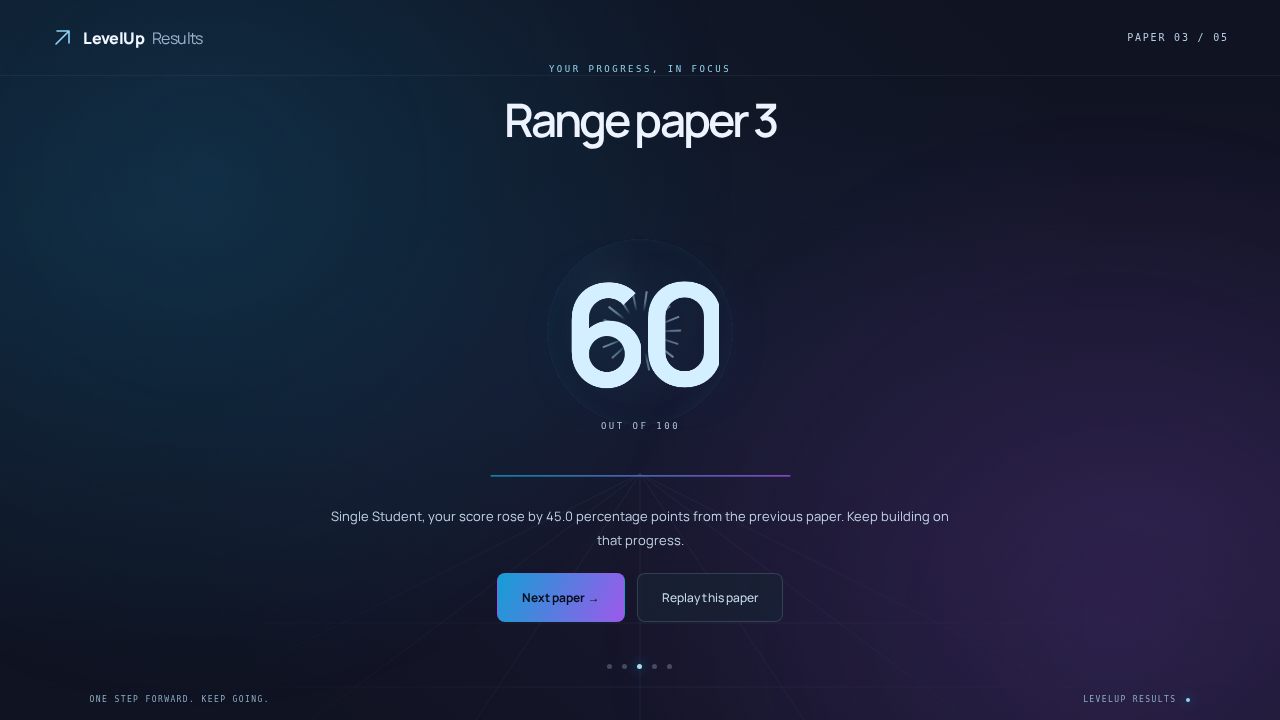
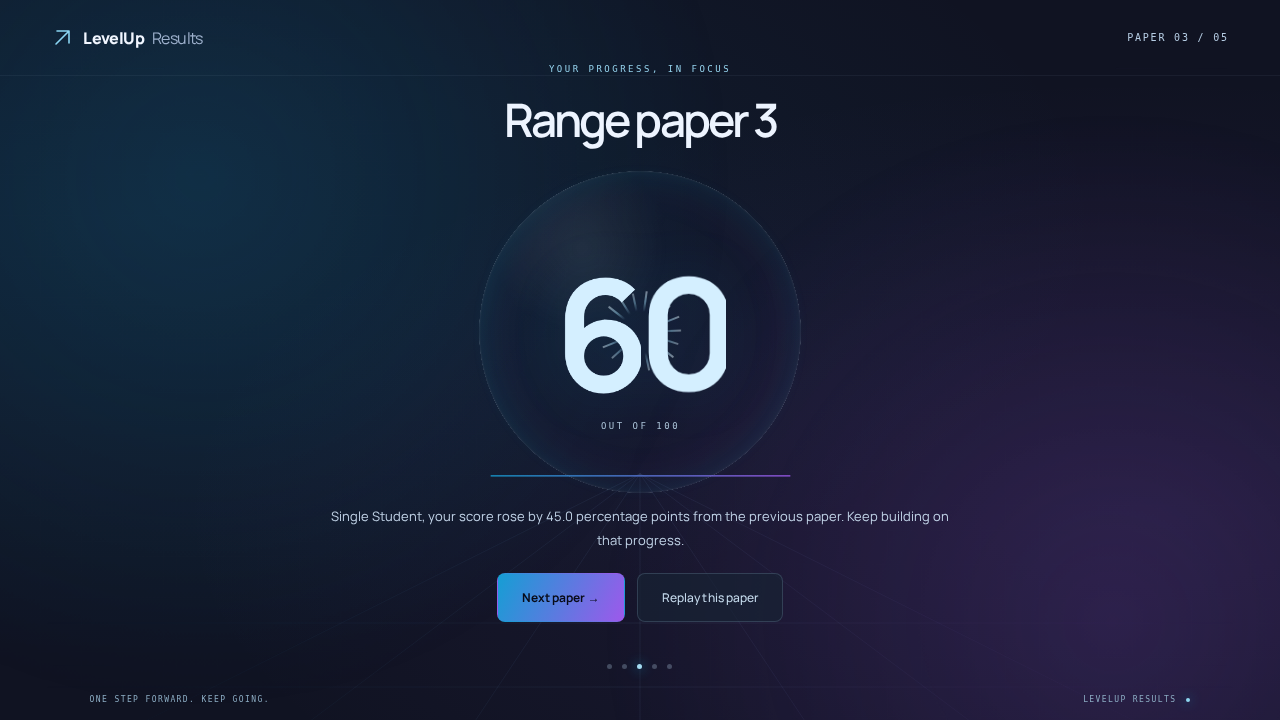
Synchronize score landing with instant glass blast and number pop

Changed region(s): [[0.4375, 0.3667, 0.5938, 0.55]]

diff --git a/tests/browser/application.spec.js b/tests/browser/application.spec.js
@@ -1649,3 +1649,90 @@ test("spinner colours develop gradually and the glass blast expands beyond the v
     /.+/,
   );
 });
+
+test("the final reel movement, glass blast and number pop share one completion frame", async ({
+  page,
+}) => {
+  test.setTimeout(30000);
+  await page.route("**/api/results/*", (route) =>
+    route.fulfill({
+      json: {
+        student: "Single Student",
+        papers: [
+          { id: "sync-a", name: "Sync paper one", max: 100, value: 60 },
+          { id: "sync-b", name: "Sync paper two", max: 100, value: 85 },
+        ],
+      },
+    }),
+  );
+  await identify(page, "Single Student");
+  await page.evaluate(() => {
+    window.revealTiming = [];
+    const original = Element.prototype.animate;
+    Element.prototype.animate = function (...args) {
+      if (this.matches(".score-glass:not(.score-glass-echo),#score"))
+        window.revealTiming.push({
+          kind: this.id === "score" ? "pop" : "blast",
+          at: performance.now(),
+          frames: args[0],
+          options: args[1],
+        });
+      return original.apply(this, args);
+    };
+    const score = document.querySelector("#score");
+    new MutationObserver((records) => {
+      if (
+        records.some((r) => r.attributeName === "data-complete") &&
+        score.dataset.complete === "true"
+      )
+        window.revealTiming.push({ kind: "stop", at: performance.now() });
+    }).observe(score, { attributes: true });
+  });
+  for (const [index, value] of [60, 85].entries()) {
+    await page.evaluate(() => {
+      window.revealTiming = [];
+      window.lastReelChange = 0;
+      let previous;
+      const watch = () => {
+        const score = document.querySelector("#score"),
+          strip = score.querySelector(".digit-strip");
+        const y = strip
+          ? new DOMMatrix(getComputedStyle(strip).transform).m42
+          : 0;
+        if (previous !== undefined && Math.abs(y - previous) > 0.1)
+          window.lastReelChange = performance.now();
+        previous = y;
+        if (score.dataset.complete !== "true") requestAnimationFrame(watch);
+      };
+      // The old completion flag is cleared by reveal before sampling starts.
+      window.watchReel = watch;
+    });
+    await page
+      .getByRole("button", {
+        name: new RegExp(index === 0 ? "Sync paper one" : "Sync paper two"),
+      })
+      .click();
+    await page.evaluate(() => requestAnimationFrame(window.watchReel));
+    await expect(page.locator("#score")).toHaveAttribute(
+      "aria-label",
+      `Score ${value}`,
+      { timeout: 6000 },
+    );
+    const timing = await page.evaluate(() => ({
+      events: window.revealTiming,
+      lastChange: window.lastReelChange,
+    }));
+    const stop = timing.events.find((e) => e.kind === "stop"),
+      blast = timing.events.find((e) => e.kind === "blast"),
+      pop = timing.events.find((e) => e.kind === "pop");
+    expect(Math.abs(blast.at - stop.at)).toBeLessThan(40);
+    expect(Math.abs(pop.at - blast.at)).toBeLessThan(20);
+    expect(stop.at - timing.lastChange).toBeLessThan(100);
+    expect(blast.options.delay).toBe(0);
+    expect(blast.frames[0].opacity).toBeGreaterThan(0);
+    expect(pop.frames[1].transform).toContain(index === 0 ? "1.22" : "1.28");
+    await expect(page.locator(".score-glass").first()).toBeVisible();
+    if (index === 0)
+      await page.getByRole("button", { name: "Next paper" }).click();
+  }
+});

diff --git a/public/reveal.js b/public/reveal.js
@@ -38,11 +38,12 @@ export function animateScore(
     host.append(slot);
     return { strip, target: 40 + Number(char) };
   });
-  let timer;
+  let timer, frame;
   const finish = () => {
     if (stopped) return;
     stopped = true;
     clearTimeout(timer);
+    cancelAnimationFrame(frame);
     strips.forEach((s) => {
       if (s) {
         s.strip.style.transition = "none";
@@ -53,21 +54,28 @@ export function animateScore(
     host.dataset.complete = "true";
     onFinish();
   };
-  requestAnimationFrame(() =>
-    requestAnimationFrame(() => {
+  // One animation clock drives both the reels and their completion effects.
+  // A CSS ease that flattens too early makes the score look stopped while a
+  // separate timeout is still waiting to start the blast.
+  if (reduced) timer = setTimeout(finish, 0);
+  else {
+    let started;
+    const roll = (now) => {
       if (stopped) return;
-      strips.forEach((s, i) => {
-        if (s) {
-          s.strip.style.transition = `transform ${reduced ? 0 : duration + i * 90}ms cubic-bezier(.12,.65,.15,1)`;
-          s.strip.style.transform = `translateY(-${s.target}em)`;
-        }
-      });
-    }),
-  );
-  timer = setTimeout(finish, reduced ? 0 : duration + digits.length * 90 + 30);
+      started ??= now;
+      const progress = Math.min(1, (now - started) / duration);
+      if (progress === 1) return finish();
+      const eased = 1 - Math.pow(1 - progress, 1.6);
+      for (const s of strips)
+        if (s) s.strip.style.transform = `translateY(-${s.target * eased}em)`;
+      frame = requestAnimationFrame(roll);
+    };
+    frame = requestAnimationFrame(roll);
+  }
   finish.cancel = () => {
     stopped = true;
     clearTimeout(timer);
+    cancelAnimationFrame(frame);
   };
   return finish;
 }

diff --git a/public/score-effects.js b/public/score-effects.js
@@ -150,11 +150,14 @@ export class ScoreEffects {
         this.animations.push(
           glass.animate(
             [
-              { opacity: 0, transform: "translate(-50%,-50%) scale(.06)" },
+              {
+                opacity: index ? 0 : 0.18,
+                transform: "translate(-50%,-50%) scale(.12)",
+              },
               {
                 opacity: index ? 0.38 : 0.8,
                 transform: "translate(-50%,-50%) scale(.34)",
-                offset: 0.22,
+                offset: 0.12,
               },
               {
                 opacity: 0.28,
@@ -204,12 +207,13 @@ export class ScoreEffects {
           [
             { transform: "translate(-50%,-50%) scale(1)" },
             {
-              transform: `translate(-50%,-50%) scale(${this.last ? 1.09 : 1.055})`,
-              offset: 0.35,
+              transform: `translate(-50%,-50%) scale(${this.last ? 1.28 : 1.22})`,
+              offset: 0.2,
             },
+            { transform: "translate(-50%,-50%) scale(.98)", offset: 0.65 },
             { transform: "translate(-50%,-50%) scale(1)" },
           ],
-          { duration: 850, easing: "cubic-bezier(.2,.7,.2,1)" },
+          { duration: 620, easing: "cubic-bezier(.2,.7,.2,1)" },
         ),
       );
     }

diff --git a/public/journey.js b/public/journey.js
@@ -626,6 +626,7 @@ export class StudentJourney {
         reduced: this.media.matches,
         duration: last ? 2900 : 2500,
         onFinish: () => {
+          this.scoreEffects.settle({ skip: this.skipEffects });
           if (motionReady) this.complete(last);
           else scoreFinished = true;
         },

diff --git a/docs/architecture.md b/docs/architecture.md
@@ -56,6 +56,9 @@ Autosave writes validated marks and sparse working cells before automatic regist
 
 ### Score effects lifecycle
 
-`public/score-effects.js` maps validated numeric results to percentage-based profiles and owns persistent atmosphere layers, one-shot burst/sweep animations and scoped confetti cleanup. `StudentJourney` prepares a profile before rolling and settles effects only after the score and screen transition finish. Leaving the reveal clears the profile, owned particles and animation handles; live reduced-motion changes cancel decorative effects. Gold is a score threshold rather than a consequence of being the final paper. The final paper still gets the largest completion celebration, without unsupported personal-best claims or negative low-score labels.
+`public/score-effects.js` maps validated numeric results to percentage-based profiles and owns persistent atmosphere layers, one-shot burst/sweep animations and scoped confetti cleanup. `StudentJourney` prepares a profile before rolling and settles effects in the same animation frame that places the reels at their final values, without waiting for the screen transition. Leaving the reveal clears the profile, owned particles and animation handles; live reduced-motion changes cancel decorative effects. Gold is a score threshold rather than a consequence of being the final paper. The final paper still gets the largest completion celebration, without unsupported personal-best claims or negative low-score labels.
 
 The spinner calls `ScoreEffects.begin(duration)` using its actual roll duration. Owned Web Animations slowly develop each wash from a neutral opening; CSS supplies the settled and reduced-motion state. The completion blast measures the farthest viewport corner from the score center to size two temporary glass surfaces. Both surfaces use transform/opacity animation and are cancelled with the rest of the reveal lifecycle; no persistent welcome-screen orb is introduced.
+
+
+The reel engine uses one requestAnimationFrame clock with visible deceleration through its endpoint. Its completion callback immediately starts the glass blast and number pop; screen-transition completion only gates the following controls. The first glass surface has zero delay and a visible first keyframe; only its echo is delayed. The number briefly scales to 1.22 (1.28 for the final paper), then settles back. Skip and reduced motion suppress both effects.

diff --git a/README.md b/README.md
@@ -199,3 +199,5 @@ Previous standalone calculation workbooks remain in MongoDB's `workbooks` collec
 Effects use the percentage of each paper's maximum: below 10% fades to deep red; 10–under 20% uses softer red; above 50% adds a single light burst when the spinner stops; above 70% turns the digits gold; above 75% adds confetti; above 90% adds a brighter achievement treatment. Thresholds are strict (50%, 70%, and 75% keep the preceding effect). Every final paper receives a larger completion celebration, including low scores, with supportive messages. These effects never change actual marks or assert unsupported improvement. Reduced-motion preferences and **Skip animation** retain the exact score and static color treatment while suppressing decorative motion. Replay and changing papers clear previous effects.
 
 During the spinner, a blue-purple atmosphere slowly develops into the score-range color rather than revealing it immediately. Qualifying bursts expand as a large translucent glass bubble behind the score, with a delayed echo and a longer final-paper blast. The effect is temporary, clears on replay, and is disabled by reduced motion or Skip animation.
+
+The glass blast and number pop start in the same rendering frame that the spinner lands on the actual mark. The reel engine shares its completion clock with the effects, avoiding a separate post-spin delay; only the decorative glass echo is delayed.

diff --git a/docs/testing.md b/docs/testing.md
@@ -66,3 +66,7 @@ Login-rate tests verify that successful teacher sign-ins do not consume the fail
 ## Gradual atmosphere and glass blast
 
 33 Node tests and 32 browser tests include the gradual spinner atmosphere and viewport-sized glass blast. A browser check samples early and late wash opacity while the spinner is still running, verifies that the expanding glass surface exceeds the viewport width, captures `glass-blast.png`, and confirms that a live reduced-motion change cancels and hides the effect. The existing range, replay, exact-score, mobile and admin regressions remain included.
+
+## Spinner and blast synchronization
+
+33 Node tests and 33 browser tests cover this update. A timing regression observes the exact score-completion mutation and intercepts the glass/pop animation starts for both an intermediate and final paper. It checks that the last visible reel movement is within 100 ms of completion, the blast starts within the same frame budget, the number pop starts with it, the main bubble has no delay, and the final pop is larger. Existing reduced-motion, skip, replay, score-range and mobile checks remain included.
